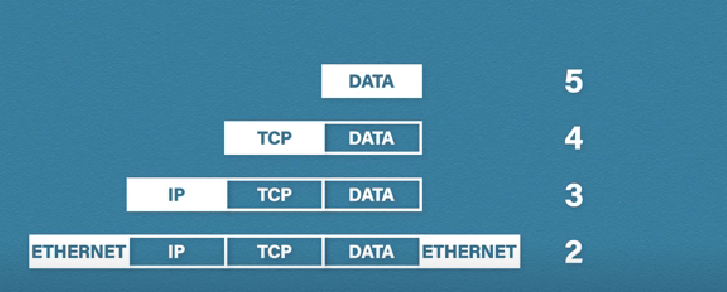
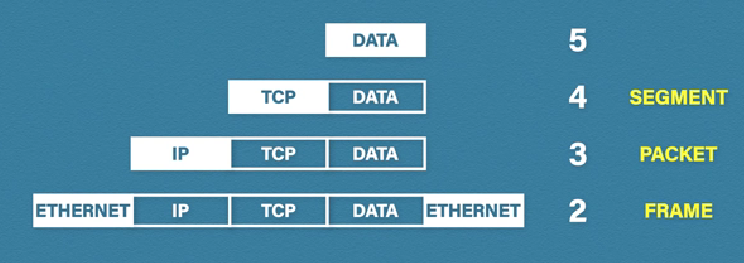
vault backup: 2023-04-30 15:47:26

diff --git a/Operation functions and principles of the layers in the network model OSI, TCP IP, IP.md b/Operation functions and principles of the layers in the network model OSI, TCP IP, IP.md
@@ -31,3 +31,9 @@ ip , routers
 ethernet  switches 
 ### 1 physical
 cables , NIC(network interface card )
+
+
+![[data.PNG]]
+the application layer contain the data 
+the  tranport layter will give it a tcp or destination address 
+the network layer will g
